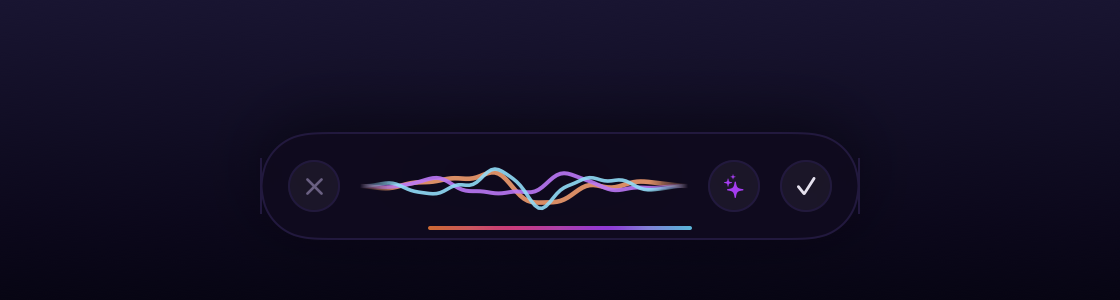
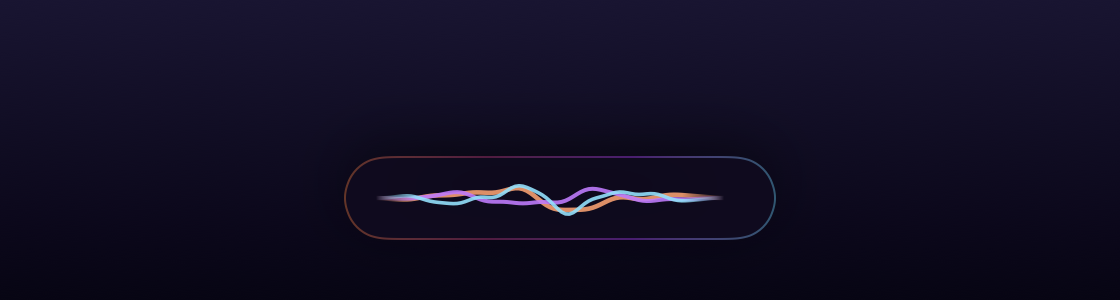
The Aurora pill (option C, user-selected)
Smaller capsule (216pt, was 300), the spectrum moved into the border
itself — a 1px aurora at ~35% opacity around the capsule — and the hem
line under the waveform removed. The ✕ ✨ ✓ controls hide until the
pointer hovers the pill, sliding the capsule out to 300pt; they were
rarely used, so they stopped costing width. Everything functional is
unchanged: message states swap in over the waveform at the same size,
streaming, gestures, drag and snap all untouched.

diff --git a/Sources/WaveformCore/HUD/HUDView.swift b/Sources/WaveformCore/HUD/HUDView.swift
@@ -8,6 +8,7 @@ import SwiftUI
 /// Draggable anywhere on its body; never steals focus.
 struct HUDView: View {
     @ObservedObject var state: HUDState
+    @State private var hovering = false
     var onFinish: (() -> Void)? = nil
     var onCancel: (() -> Void)? = nil
     /// Finish, but run the text through the on-device model first.
@@ -58,11 +59,11 @@ struct HUDView: View {
         }
     }
 
+    // Aurora (option C): a small capsule whose 1px rim IS the spectrum, the
+    // ribbons carrying the rest. Controls stay hidden until the pointer
+    // arrives — they were rarely used, so they stopped costing width.
     var body: some View {
         HStack(spacing: 10) {
-            roundButton(symbol: "xmark", color: Self.ink3, enabled: isActive) { onCancel?() }
-                .help("Cancel — discard this dictation")
-
             // Waveform and message share one fixed stage: state changes swap
             // opacity, never layout, so the pill never jumps.
             ZStack {
@@ -85,40 +86,33 @@ struct HUDView: View {
                     .minimumScaleFactor(0.7)
                     .opacity(showsMessage ? 1 : 0)
             }
-            .frame(maxWidth: .infinity, minHeight: 36, maxHeight: 36)
+            .frame(maxWidth: .infinity, minHeight: 26, maxHeight: 26)
             .animation(.easeOut(duration: 0.18), value: showsMessage)
 
-            roundButton(symbol: "sparkles", color: Self.violet, enabled: isActive && canPolish) {
-                onPolish?(NSEvent.modifierFlags.contains(.option))
+            HStack(spacing: 7) {
+                roundButton(symbol: "xmark", color: Self.ink3, enabled: isActive) { onCancel?() }
+                    .help("Cancel — discard this dictation")
+                roundButton(symbol: "sparkles", color: Self.violet, enabled: isActive && canPolish) {
+                    onPolish?(NSEvent.modifierFlags.contains(.option))
+                }
+                .help(canPolish
+                    ? "Organize this, then insert  (⌥-click: turn it into a prompt)"
+                    : "Needs Apple Intelligence enabled")
+                roundButton(symbol: "checkmark", color: DashboardView.ink, enabled: isActive) { onFinish?() }
+                    .help("Insert exactly as spoken")
             }
-            .help(canPolish
-                ? "Organize this, then insert  (⌥-click: turn it into a prompt)"
-                : "Needs Apple Intelligence enabled")
-
-            roundButton(symbol: "checkmark", color: DashboardView.ink, enabled: isActive) { onFinish?() }
-                .help("Insert exactly as spoken")
+            .frame(width: hovering ? 80 : 0)
+            .opacity(hovering ? 1 : 0)
+            .clipped()
         }
-        .padding(.horizontal, 14)
-        .padding(.vertical, 9)
-        .frame(width: 300)
+        .padding(.horizontal, 16)
+        .padding(.vertical, 8)
+        .frame(width: hovering ? 300 : 216)
         .background(pillBackground)
         .overlay(pillRim)
-        .overlay(alignment: .bottom) {
-            // The dashboard's spectrum rail, worn as a hem: the pill's one
-            // piece of chrome jewelry.
-            LinearGradient(
-                colors: [
-                    DashboardView.orange, DashboardView.pink,
-                    DashboardView.violet, DashboardView.cyan,
-                ],
-                startPoint: .leading, endPoint: .trailing
-            )
-            .frame(width: 132, height: 2)
-            .clipShape(Capsule())
-            .offset(y: -5)
-            .opacity(0.85)
-        }
-        .shadow(color: .black.opacity(0.45), radius: 18, y: 6)
+        .shadow(color: .black.opacity(0.45), radius: 16, y: 6)
+        .onHover { hovering = $0 }
+        .animation(.easeOut(duration: 0.22), value: hovering)
         .frame(maxWidth: .infinity, maxHeight: .infinity, alignment: .bottom)
     }
 
@@ -128,8 +122,21 @@ struct HUDView: View {
     }
 
     private var pillRim: some View {
+        // The aurora: the spectrum lives in the border itself, at an opacity
+        // that reads as a glow's memory rather than the old neon.
         Capsule(style: .continuous)
-            .strokeBorder(Self.line, lineWidth: 1)
+            .strokeBorder(
+                LinearGradient(
+                    colors: [
+                        DashboardView.orange.opacity(0.38),
+                        DashboardView.pink.opacity(0.30),
+                        DashboardView.violet.opacity(0.38),
+                        DashboardView.cyan.opacity(0.38),
+                    ],
+                    startPoint: .leading, endPoint: .trailing
+                ),
+                lineWidth: 1
+            )
     }
 
     private func roundButton(

diff --git a/README.md b/README.md
@@ -28,9 +28,9 @@ app you're typing into, and you can drag it anywhere — it remembers where.
 
 The pill shows only the moving waveform while you speak — your words belong at
 the cursor, not in a floating box. The ribbons carry the signal: orange rides
-your voice, cyan stills if the recognizer stops understanding. On the pill:
-**✕** discard · **✨** organize the text first (⌥-click builds a prompt) ·
-**✓** insert exactly as spoken.
+your voice, cyan stills if the recognizer stops understanding. Hover the pill
+for the controls: **✕** discard · **✨** organize the text first (⌥-click
+builds a prompt) · **✓** insert exactly as spoken.
 
 ## Install
 
